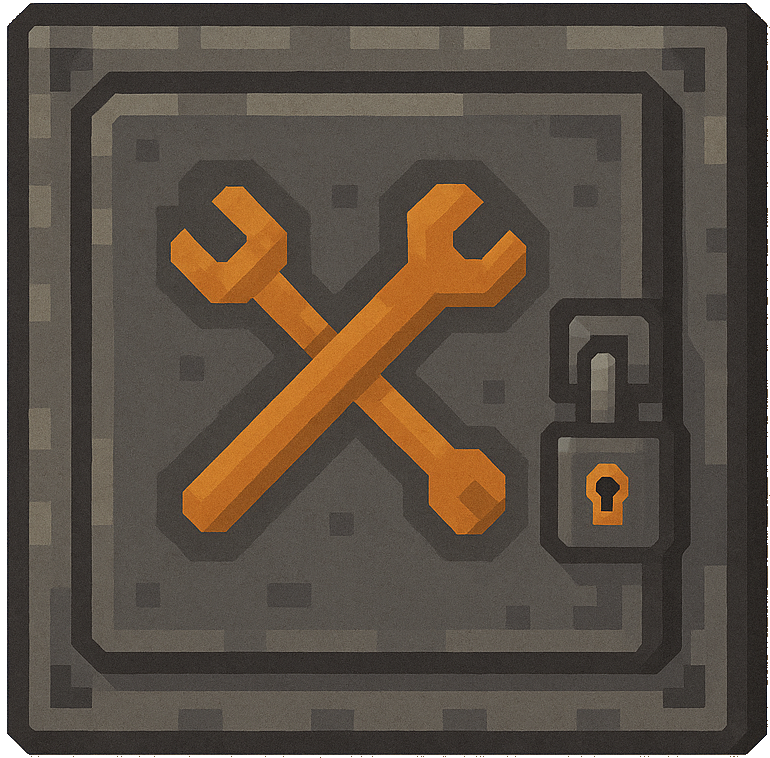
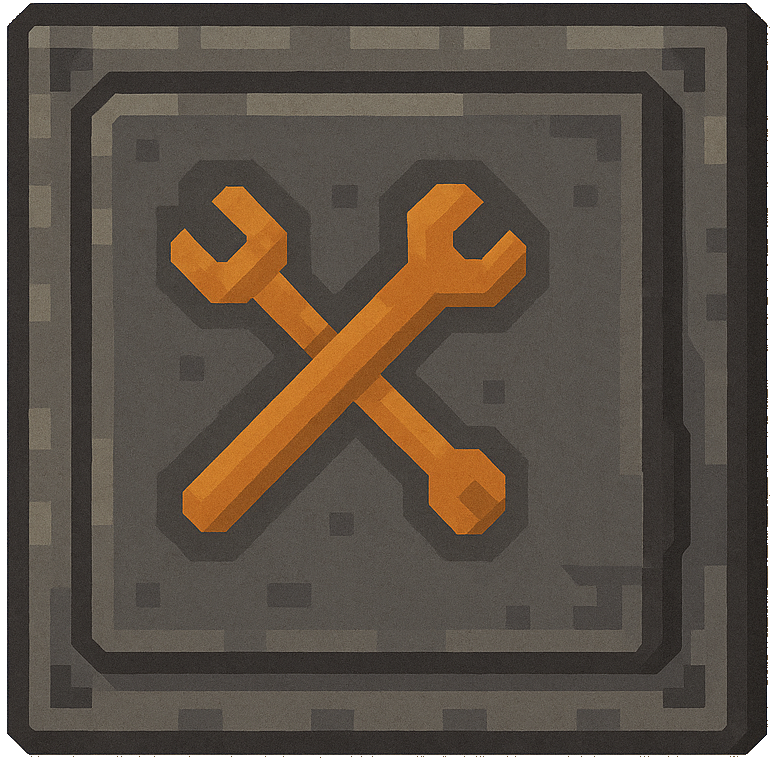
lock for repair cabinet, lock pulling mechanics
note: I added a rotate function to Sprite in SpriteManager.js

Changed region(s): [[0.6857, 0.3945, 0.8727, 0.7586]]

diff --git a/src/views/breakerRoom/RepairView.js b/src/views/breakerRoom/RepairView.js
@@ -4,14 +4,25 @@ class RepairToolCabinet{
         this.y = y;
         this.scale = scale;
 
+        // for hitbox
+        this.width = 4
+        this.height = 3
+
         this.closedSprite = SM.get("closedRepair");
         this.closedSprite.setPos(this.x, this.y);
         this.closedSprite.setScale(this.scale);
-        this.width = 1.93
-        this.height = 2.3
+
+        // --- lock visuals and mechanics
+        // should be in lower right corner of repair tool cabinet, manually placed for now
+        this.lockSprite = SM.get("rustyLock")
+        this.lockSprite.setPos(this.x+1.9, this.y+2.2);
+        this.lockSprite.setScale(0.1);
+
+        this.animationPlaying = false;
+        this.clicks = 0;
+
 
         this.onClick = onClick;
-        this.highlight = new HighlightEvent(this.x, this.y, this.width, this.height);
     }
 
     isMouseInBounds(mx, my) {
@@ -25,16 +36,38 @@ class RepairToolCabinet{
         );
     }
 
+    update(dt){
+        // MAKE THIS TIME BASED NOT EXECUTION COUNT BASED
+        if(this.animationPlaying){
+            /* you can play around with these values for the animation. Just note that rotatio is in radians, so PI/180 is 1 degree.
+            I made the speed and range of rotation increase with clicks so it seems like it's being pulled more the more u click it
+            */
+            this.lockSprite.setRotation(this.lockSprite.rotation + (this.clicks*(Math.PI/180)))
+            
+            if(this.lockSprite.rotation > (this.clicks*(Math.PI/45))){
+                this.lockSprite.rotation = 0;
+                this.animationPlaying = false;
+            }
+        }
+
+    }
+
     onEnter() {
         R.add(this.closedSprite, 9)
+        R.add(this.lockSprite, 10)
     }
     onExit() {
         R.remove(this.closedSprite);
+        R.remove(this.lockSprite)
     }
 
     mousePressed(p) {
         if (this.isMouseInBounds(p?.x, p?.y)) {
-            this.onClick(this);
+            this.onClick(this.clicks);
+
+            // play quick animation to show lock moving
+            this.animationPlaying = true;
+            this.clicks += 1;
         }
     }
 }
@@ -45,9 +78,16 @@ class RepairView extends View {
         this.background = SM.get("MetalWall");
         this.background.setSize(16, 9);
 
-        this.repairCabinet = new RepairToolCabinet(1, 1, 0.4)
+        this.textNotificationHandler = new TextNotificationHandler(0.5, 0.85, {holdFadeoutFor: 2.5});
 
-        this.textNotificationHandler = new TextNotificationHandler(0.5, 0.85);
+        this.repairCabinet = new RepairToolCabinet(1, 1, 0.4, (clickCount) => {
+            if(clickCount % 4 == 0){
+                this.textNotificationHandler.addText("A lock seems to be holding this cabinet shut.")
+            }
+            else if(clickCount == 2){
+                this.textNotificationHandler.addText("This lock looks old...")
+            }
+        })
     }
 
     update(dt){

diff --git a/src/core/SpriteManager.js b/src/core/SpriteManager.js
@@ -43,6 +43,7 @@ function loadSprites() {
     // breaker room
     SM.add("closedRepair", loadImage('assets/placeholders/breaker/closedRepair.png'));
     SM.add("openRepair", loadImage('assets/placeholders/breaker/openRepair.png'));
+    SM.add("rustyLock", loadImage('assets/placeholders/breaker/rustyLock.png'));
 }
 
 
@@ -69,6 +70,7 @@ class Sprite {
         this.y = y;
         this.scale = scale / 100;
         this.customSize = null;
+        this.rotation = 0; // in radians
     }
 
     clone() {
@@ -93,6 +95,10 @@ class Sprite {
     setPos(x, y) {
         this.x = x;
         this.y = y; 
+    }
+
+    setRotation(r){
+        this.rotation = r;
     }
 
     getNativeSize() {
@@ -123,6 +129,12 @@ class Sprite {
         }
 
         push();
+        
+        if(this.rotation != 0){
+            translate(this.x*u, this.y*v) // change origin for rotation to be around current sprite
+            rotate(this.rotation)
+            translate(-(this.x*u), -(this.y*v)) // change origin back for drawing
+        }
         image(this.src, this.x * u, this.y * v, w, h )
         pop();
     }
